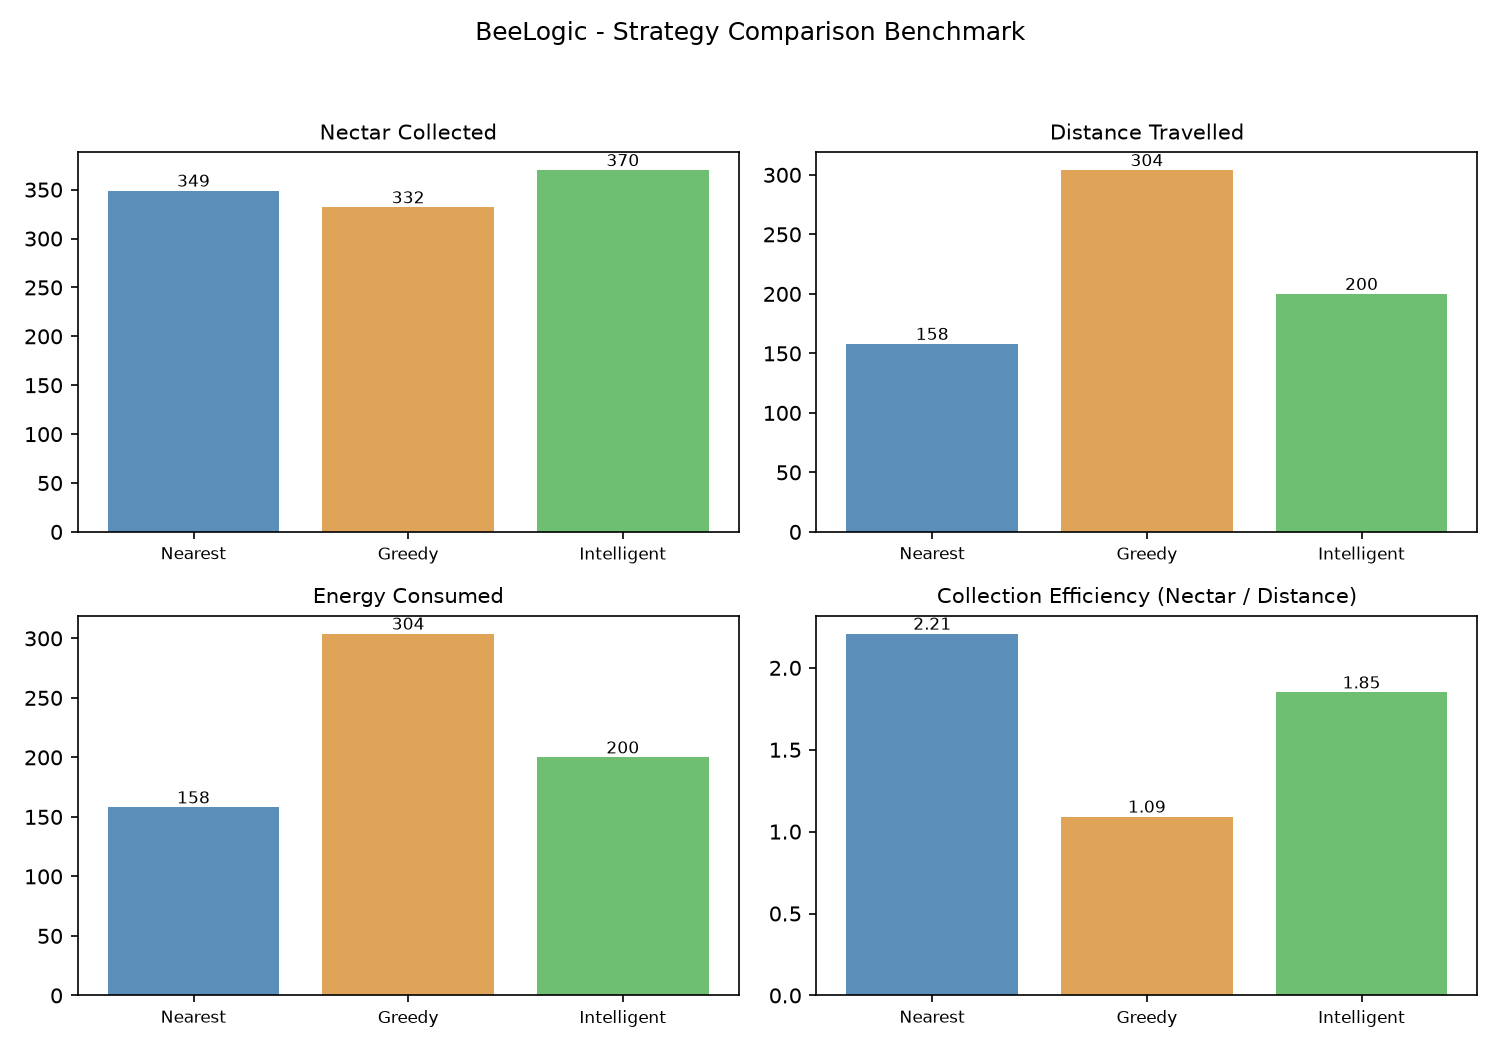
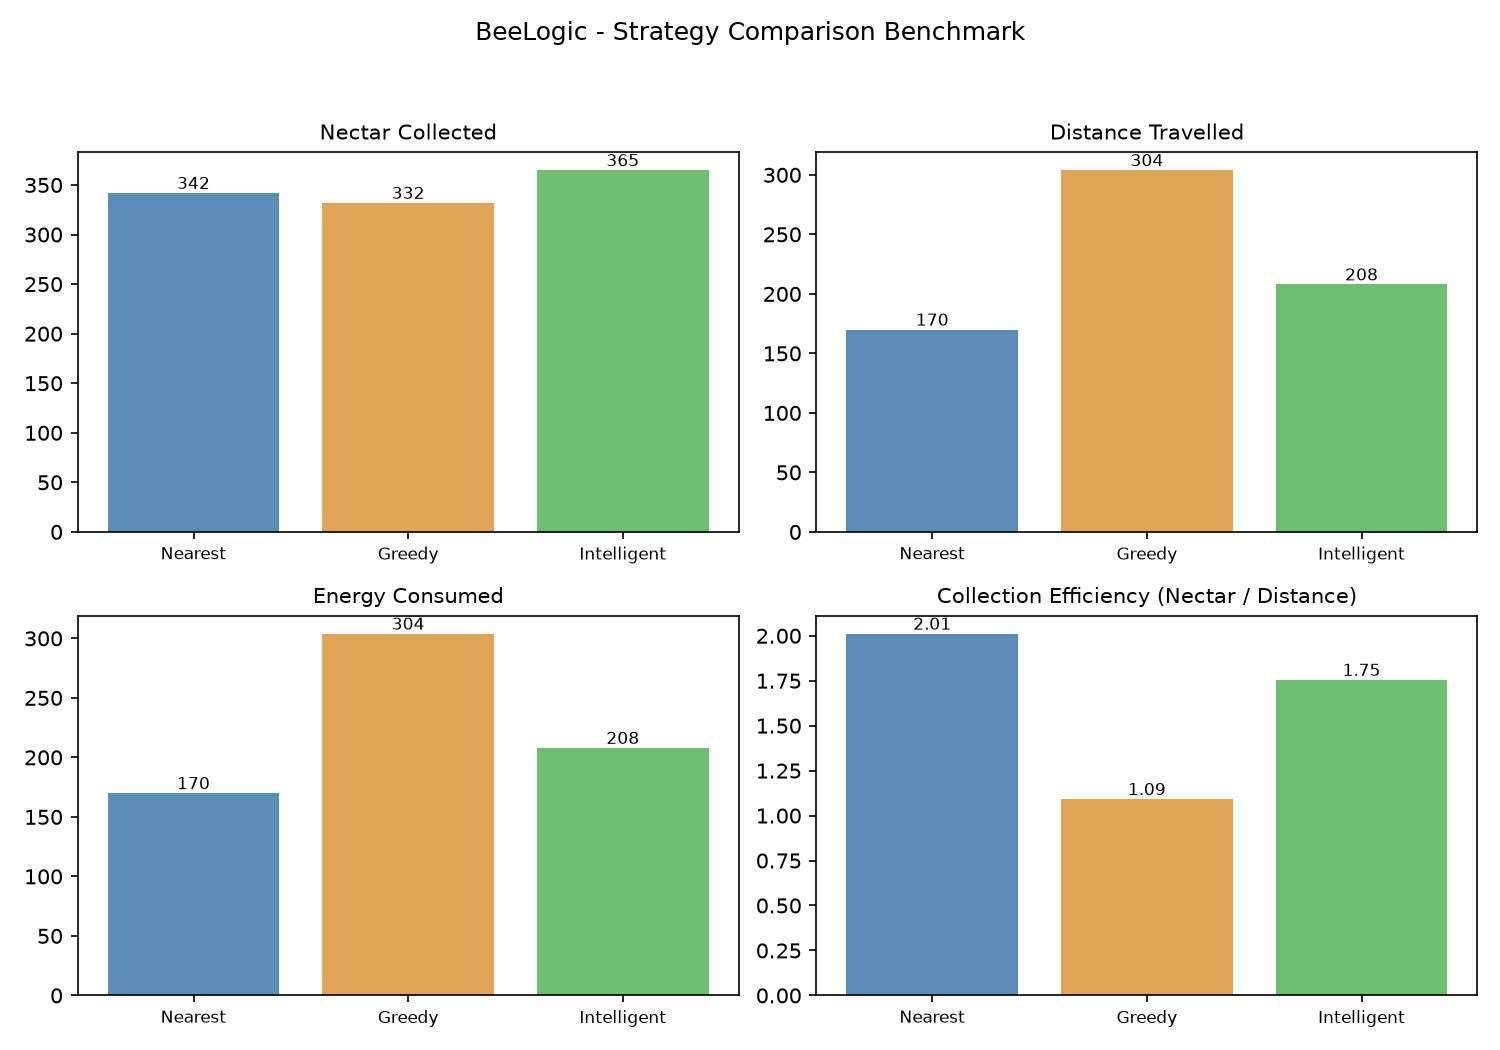
Updated location of flower cell badges

diff --git a/ui/app.py b/ui/app.py
@@ -343,40 +343,62 @@ class BeeLogicApp:
         sw, sh = sprite.get_size()
         surface.blit(sprite, (center_x - sw // 2, center_y - sh // 2))
 
-        if is_available:
-            # Stardew wooden garden stake / parchment tag above flower
-            if flower_id is not None:
-                id_txt = f"#{flower_id}"
-                id_surf = self.font_badge.render(id_txt, True, SV_TEXT_DARK)
-                pw = id_surf.get_width() + 8
-                ph = id_surf.get_height() + 2
-                px = center_x - pw // 2
-                py = y * CELL + 2
-                pygame.draw.rect(surface, SV_WOOD_DARK, (px, py, pw, ph), border_radius=3)
-                pygame.draw.rect(surface, (252, 240, 205), (px + 1, py + 1, pw - 2, ph - 2), border_radius=2)
-                draw_text_shadow(surface, id_txt, self.font_badge, SV_TEXT_DARK, SV_TEXT_HI_SHADOW, (px + 4, py + 1), (0, 1))
+        cell_left = x * CELL
+        cell_bottom = (y + 1) * CELL
 
-            # Golden honey droplet badge at bottom
-            pw = self.font_badge.size(str(nectar))[0] + 10
-            ph = self.font_badge.size(str(nectar))[1] + 4
-            px = center_x - pw // 2
-            py = y * CELL + CELL - ph - 2
-            pygame.draw.rect(surface, SV_WOOD_DARK, (px, py, pw, ph), border_radius=6)
-            pygame.draw.rect(surface, SV_NECTAR_MAIN, (px + 1, py + 1, pw - 2, ph - 2), border_radius=5)
-            pygame.draw.line(surface, SV_NECTAR_HI, (px + 2, py + 2), (px + pw - 3, py + 2), 1)
-            draw_text_shadow(surface, str(nectar), self.font_badge, (255, 255, 245), (70, 35, 10), (px + 5, py + 2), (1, 1))
-        else:
+        if is_available:
+            # 1. Flower Number Badge (Bottom-Left)
             if flower_id is not None:
                 id_txt = f"#{flower_id}"
+                tw, th = self.font_badge.size(id_txt)
+                pw_id = tw + 6
+                ph_id = th + 3
+                px_id = cell_left + 2
+                py_id = cell_bottom - ph_id - 2
+                id_rect = pygame.Rect(px_id, py_id, pw_id, ph_id)
+                pygame.draw.rect(surface, SV_WOOD_DARK, id_rect, border_radius=3)
+                pygame.draw.rect(surface, (252, 240, 205), id_rect.inflate(-2, -2), border_radius=2)
+                draw_text_shadow(surface, id_txt, self.font_badge, SV_TEXT_DARK, SV_TEXT_HI_SHADOW, (px_id + 3, py_id + 1), (0, 1))
+
+            # 2. Golden Nectar Level Badge (Bottom-Right)
+            nec_txt = str(nectar)
+            tw_n, th_n = self.font_badge.size(nec_txt)
+            pw_n = tw_n + 8
+            ph_n = th_n + 3
+            px_n = cell_left + CELL - pw_n - 2
+            py_n = cell_bottom - ph_n - 2
+            nec_rect = pygame.Rect(px_n, py_n, pw_n, ph_n)
+            pygame.draw.rect(surface, SV_WOOD_DARK, nec_rect, border_radius=4)
+            pygame.draw.rect(surface, SV_NECTAR_MAIN, nec_rect.inflate(-2, -2), border_radius=3)
+            pygame.draw.line(surface, SV_NECTAR_HI, (px_n + 2, py_n + 2), (px_n + pw_n - 3, py_n + 2), 1)
+            draw_text_shadow(surface, nec_txt, self.font_badge, (255, 255, 245), (70, 35, 10), (px_n + 4, py_n + 1), (1, 1))
+        else:
+            # 1. Depleted Flower Number Badge (Bottom-Left)
+            if flower_id is not None:
+                id_txt = f"#{flower_id}"
+                tw, th = self.font_badge.size(id_txt)
+                pw_id = tw + 6
+                ph_id = th + 3
+                px_id = cell_left + 2
+                py_id = cell_bottom - ph_id - 2
+                id_rect = pygame.Rect(px_id, py_id, pw_id, ph_id)
+                pygame.draw.rect(surface, (140, 110, 85), id_rect, width=1, border_radius=3)
+                pygame.draw.rect(surface, (225, 210, 190), id_rect.inflate(-2, -2), border_radius=2)
                 id_surf = self.font_badge.render(id_txt, True, (140, 110, 85))
-                pw = id_surf.get_width() + 8
-                ph = id_surf.get_height() + 2
-                px = center_x - pw // 2
-                py = y * CELL + 2
-                pygame.draw.rect(surface, (140, 110, 85), (px, py, pw, ph), width=1, border_radius=3)
-                surface.blit(id_surf, (px + 4, py + 1))
-            d_tag = self.font_badge.render("0", True, (140, 110, 85))
-            surface.blit(d_tag, (center_x - d_tag.get_width() // 2, y * CELL + CELL - 18))
+                surface.blit(id_surf, (px_id + 3, py_id + 1))
+
+            # 2. Depleted Nectar Badge "0" (Bottom-Right)
+            nec_txt = "0"
+            tw_n, th_n = self.font_badge.size(nec_txt)
+            pw_n = tw_n + 8
+            ph_n = th_n + 3
+            px_n = cell_left + CELL - pw_n - 2
+            py_n = cell_bottom - ph_n - 2
+            nec_rect = pygame.Rect(px_n, py_n, pw_n, ph_n)
+            pygame.draw.rect(surface, (140, 110, 85), nec_rect, width=1, border_radius=3)
+            pygame.draw.rect(surface, (225, 210, 190), nec_rect.inflate(-2, -2), border_radius=2)
+            d_tag = self.font_badge.render(nec_txt, True, (140, 110, 85))
+            surface.blit(d_tag, (px_n + 4, py_n + 1))
 
     def draw_bee(self, surface, x, y):
         if not self.running_sim or self.bee.finished:
@@ -1060,7 +1082,7 @@ class BeeLogicApp:
             pygame.draw.circle(self.canvas, SV_WOOD_DARK, (rx, footer_box.centery), 5)
             pygame.draw.circle(self.canvas, SV_WOOD_RIVET, (rx, footer_box.centery), 3)
 
-        hint_str = "Click anywhere or press [ ESC ] / [ SPACE ] to return to simulation  •  Benchmark chart saved to out/comparison_chart.png"
+        hint_str = "Click anywhere or press [ ESC ] / [ SPACE ] to return to simulation"
         hw, hh = self.font_body_bold.size(hint_str)
         hx = footer_box.centerx - hw // 2
         hy = footer_box.centery - hh // 2
